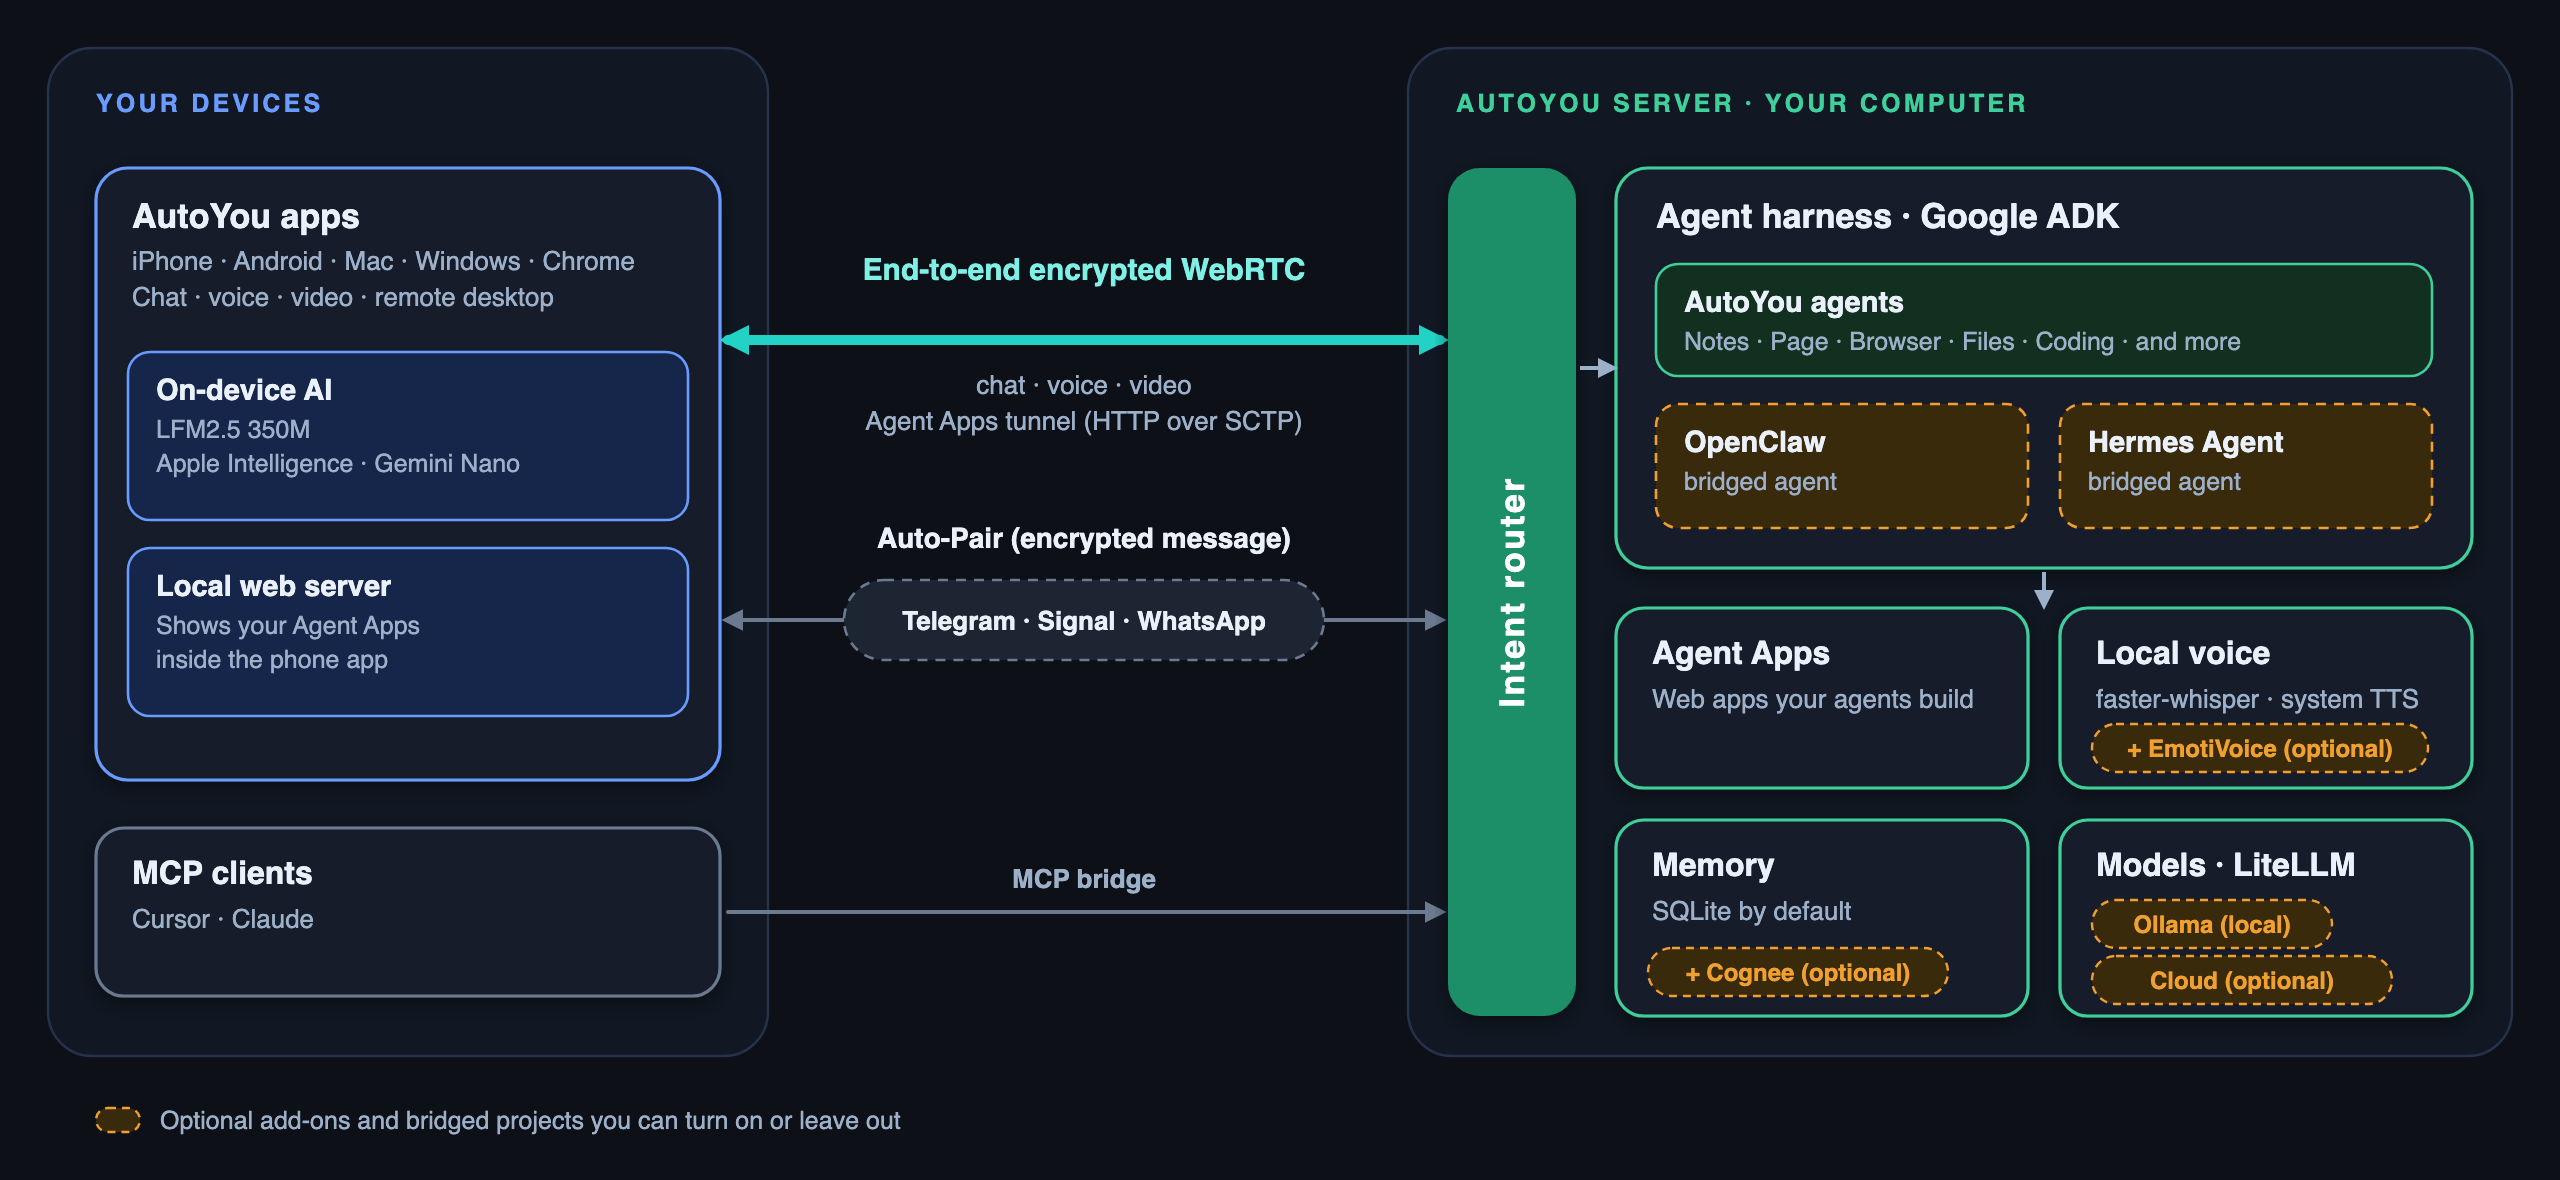
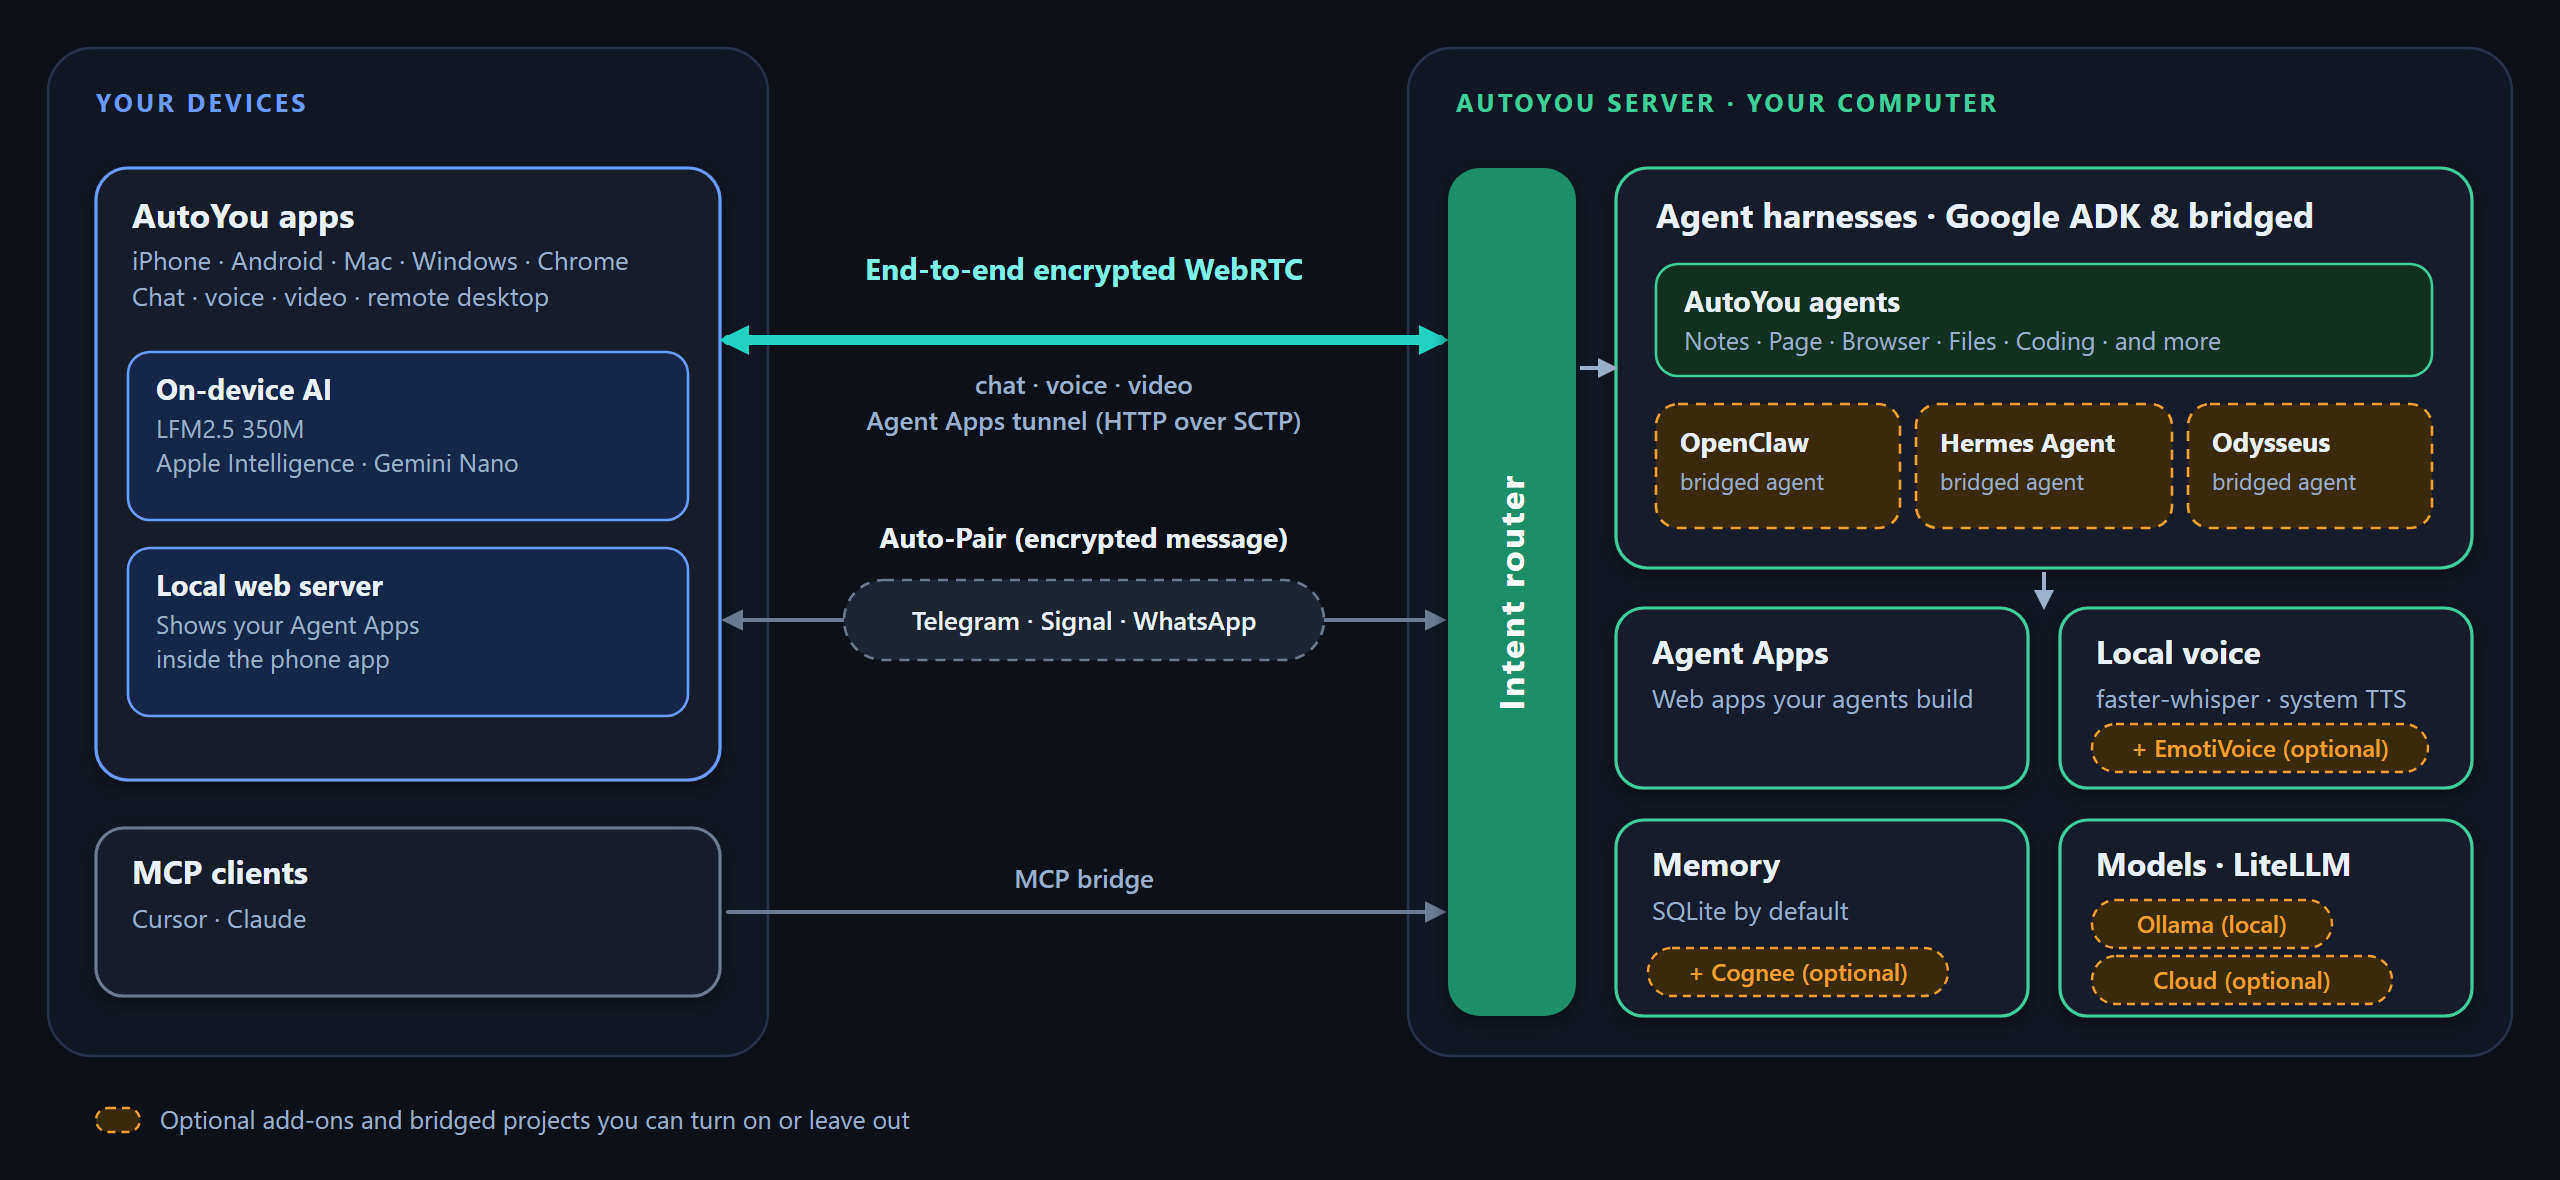
docs(architecture): add Odysseus bridged harness to architecture diagram and README

diff --git a/scripts/build_architecture_diagram.py b/scripts/build_architecture_diagram.py
@@ -55,15 +55,15 @@ def build(theme: str) -> str:
         for i, line in enumerate(lines):
             text(x + 18, ty + 22 + i * 18, line, 13, 400, c["muted"])
 
-    def chip(x, y, w, h, title, sub, accent, bg, dashed=False):
+    def chip(x, y, w, h, title, sub, accent, bg, dashed=False, title_size=14.5, sub_size=12.5, pad_x=14):
         dash = ' stroke-dasharray="5 4"' if dashed else ""
         add(f'<rect x="{x}" y="{y}" width="{w}" height="{h}" rx="11" fill="{bg}" stroke="{accent}" stroke-width="1.3"{dash}/>')
-        text(x + 14, y + 24, title, 14.5, 650, c["ink"])
+        text(x + pad_x, y + 24, title, title_size, 650, c["ink"])
         if sub:
             if isinstance(sub, str):
                 sub = [sub]
             for i, s in enumerate(sub):
-                text(x + 14, y + 43 + i * 17, s, 12.5, 400, c["muted"])
+                text(x + pad_x, y + 43 + i * 17, s, sub_size, 400, c["muted"])
 
     def badge(x, y, w, label):
         add(f'<rect x="{x}" y="{y}" width="{w}" height="24" rx="12" fill="{c["orange_bg"]}" stroke="{c["orange"]}" '
@@ -75,8 +75,9 @@ def build(theme: str) -> str:
     add('<title id="t">AutoYou architecture</title>')
     add('<desc id="d">Your phone, laptop and browser connect to the AutoYou Server on your own computer over an '
         'end-to-end encrypted WebRTC link. Telegram, Signal or WhatsApp carry the encrypted Auto-Pair message. '
-        'The server runs a Google ADK agent harness with AutoYou agents, OpenClaw and Hermes Agent, with Agent '
-        'Apps, local voice, memory and models through LiteLLM to Ollama or optional cloud providers.</desc>')
+        'The server connects different agent harnesses—Google ADK runs the native AutoYou agents, alongside bridged '
+        'harnesses for OpenClaw, Hermes Agent, and Odysseus, with Agent Apps, local voice, memory and models through '
+        'LiteLLM to Ollama or optional cloud providers.</desc>')
     add('<defs>'
         f'<filter id="shadow" x="-10%" y="-10%" width="120%" height="130%"><feDropShadow dx="0" dy="3" stdDeviation="5" flood-color="{c["shadow"]}"/></filter>'
         f'<marker id="arr" viewBox="0 0 10 10" refX="7" refY="5" markerUnits="userSpaceOnUse" markerWidth="15" markerHeight="15" orient="auto-start-reverse"><path d="M0 0 L10 5 L0 10 z" fill="{c["teal"]}"/></marker>'
@@ -123,10 +124,11 @@ def build(theme: str) -> str:
 
     # harness
     add(f'<rect x="808" y="84" width="428" height="200" rx="16" fill="{c["card"]}" stroke="{c["green"]}" stroke-width="1.6" filter="url(#shadow)"/>')
-    text(828, 114, "Agent harness · Google ADK", 17, 750)
+    text(828, 114, "Agent harnesses · Google ADK & bridged", 17, 750)
     chip(828, 132, 388, 56, "AutoYou agents", "Notes · Page · Browser · Files · Coding · and more", c["green"], c["green_bg"])
-    chip(828, 202, 186, 62, "OpenClaw", "bridged agent", c["orange"], c["orange_bg"], dashed=True)
-    chip(1030, 202, 186, 62, "Hermes Agent", "bridged agent", c["orange"], c["orange_bg"], dashed=True)
+    chip(828, 202, 122, 62, "OpenClaw", "bridged agent", c["orange"], c["orange_bg"], dashed=True, title_size=13.5, sub_size=11.5, pad_x=12)
+    chip(958, 202, 128, 62, "Hermes Agent", "bridged agent", c["orange"], c["orange_bg"], dashed=True, title_size=13, sub_size=11.5, pad_x=12)
+    chip(1094, 202, 122, 62, "Odysseus", "bridged agent", c["orange"], c["orange_bg"], dashed=True, title_size=13.5, sub_size=11.5, pad_x=12)
 
     # services 2x2
     card(808, 304, 206, 90, "Agent Apps", ["Web apps your agents build"], c["green"])
@@ -148,12 +150,31 @@ def build(theme: str) -> str:
     return "\n".join(out)
 
 
+def render_pngs(out_dir: Path):
+    try:
+        from playwright.sync_api import sync_playwright
+        with sync_playwright() as p:
+            browser = p.chromium.launch()
+            for theme in ("light", "dark"):
+                svg_path = (out_dir / f"architecture-{theme}.svg").resolve()
+                png_path = (out_dir / f"architecture-{theme}.png").resolve()
+                page = browser.new_page(viewport={"width": W, "height": H}, device_scale_factor=2)
+                page.goto(svg_path.as_uri())
+                page.screenshot(path=str(png_path))
+                page.close()
+            browser.close()
+            print("rendered PNGs", [f"architecture-{t}.png" for t in ("light", "dark")])
+    except Exception as exc:
+        print(f"PNG rendering skipped: {exc}")
+
+
 def main():
     out_dir = Path(sys.argv[1] if len(sys.argv) > 1 else ".")
     out_dir.mkdir(parents=True, exist_ok=True)
     for theme in ("light", "dark"):
         (out_dir / f"architecture-{theme}.svg").write_text(build(theme), encoding="utf-8")
     print("wrote", [p.name for p in sorted(out_dir.glob("architecture-*.svg"))])
+    render_pngs(out_dir)
 
 
 if __name__ == "__main__":

diff --git a/README.md b/README.md
@@ -75,6 +75,7 @@ When building AI applications, specialized agents, or web frontends with tools l
 | Capability | What's included |
 | :--- | :--- |
 | **Local AI & Inference** | Integrated Ollama helpers, local GGUF/Hugging Face model support, and cloud provider fallbacks. |
+| **Multi-Harness Agents** | Connect different agent harnesses: Google ADK native agents, OpenClaw, Hermes Agent, and Odysseus. |
 | **Local Intent Router** | High-speed, on-device classifier routing commands locally without external network calls. |
 | **Real-time Voice & Video** | Full WebRTC media engine, fast STT (Whisper), neural TTS, and room call presence. |
 | **Browser & Web Agents** | Headless browser execution via Playwright for autonomous research and web automation. |
@@ -183,15 +184,16 @@ the current dependency review.
 
 <picture>
   <source media="(prefers-color-scheme: dark)" srcset="docs/images/architecture-dark.png">
-  <img src="docs/images/architecture-light.png" alt="AutoYou architecture: your apps connect to the AutoYou Server on your own computer over an end-to-end encrypted WebRTC link, with Auto-Pair messages carried by Telegram, Signal or WhatsApp. The server's intent router feeds a Google ADK agent harness (AutoYou agents, OpenClaw, Hermes Agent) alongside Agent Apps, local voice, memory and models through LiteLLM to Ollama or optional cloud providers." width="100%">
+  <img src="docs/images/architecture-light.png" alt="AutoYou architecture: your apps connect to the AutoYou Server on your own computer over an end-to-end encrypted WebRTC link, with Auto-Pair messages carried by Telegram, Signal or WhatsApp. The server's intent router connects different agent harnesses—Google ADK runs the native AutoYou agents, alongside bridged harnesses for OpenClaw, Hermes Agent, and Odysseus—alongside Agent Apps, local voice, memory and models through LiteLLM to Ollama or optional cloud providers." width="100%">
 </picture>
 
 - **Pair.** Auto-Pair exchanges an encrypted pairing message through a Telegram, Signal or WhatsApp workflow
   you set up, or over your local network.
 - **Connect.** Your apps reach the server over an end-to-end encrypted WebRTC link for chat, voice and video.
   Agent Apps ride the same link as HTTP over the SCTP data channel to a small web server inside the phone app.
-- **Think.** A Google ADK harness runs the built-in AutoYou agents and bridges OpenClaw and Hermes Agent.
-  LiteLLM sends model calls to Ollama on your machine, or to a cloud provider only if you add one.
+- **Think.** The unified intent router connects different agent harnesses: Google ADK powers the native
+  AutoYou agents, while bridged harnesses integrate OpenClaw, Hermes Agent, and Odysseus. LiteLLM routes
+  model calls locally to Ollama on your machine or to optional cloud providers.
 - **Listen, speak, remember.** faster-whisper transcribes, system voices speak (EmotiVoice is optional), and
   memory lives in SQLite (Cognee is optional).
 - **On the phone.** Chat on-device with LFM2.5 350M, Apple Intelligence on iPhone, or Gemini Nano on supported
